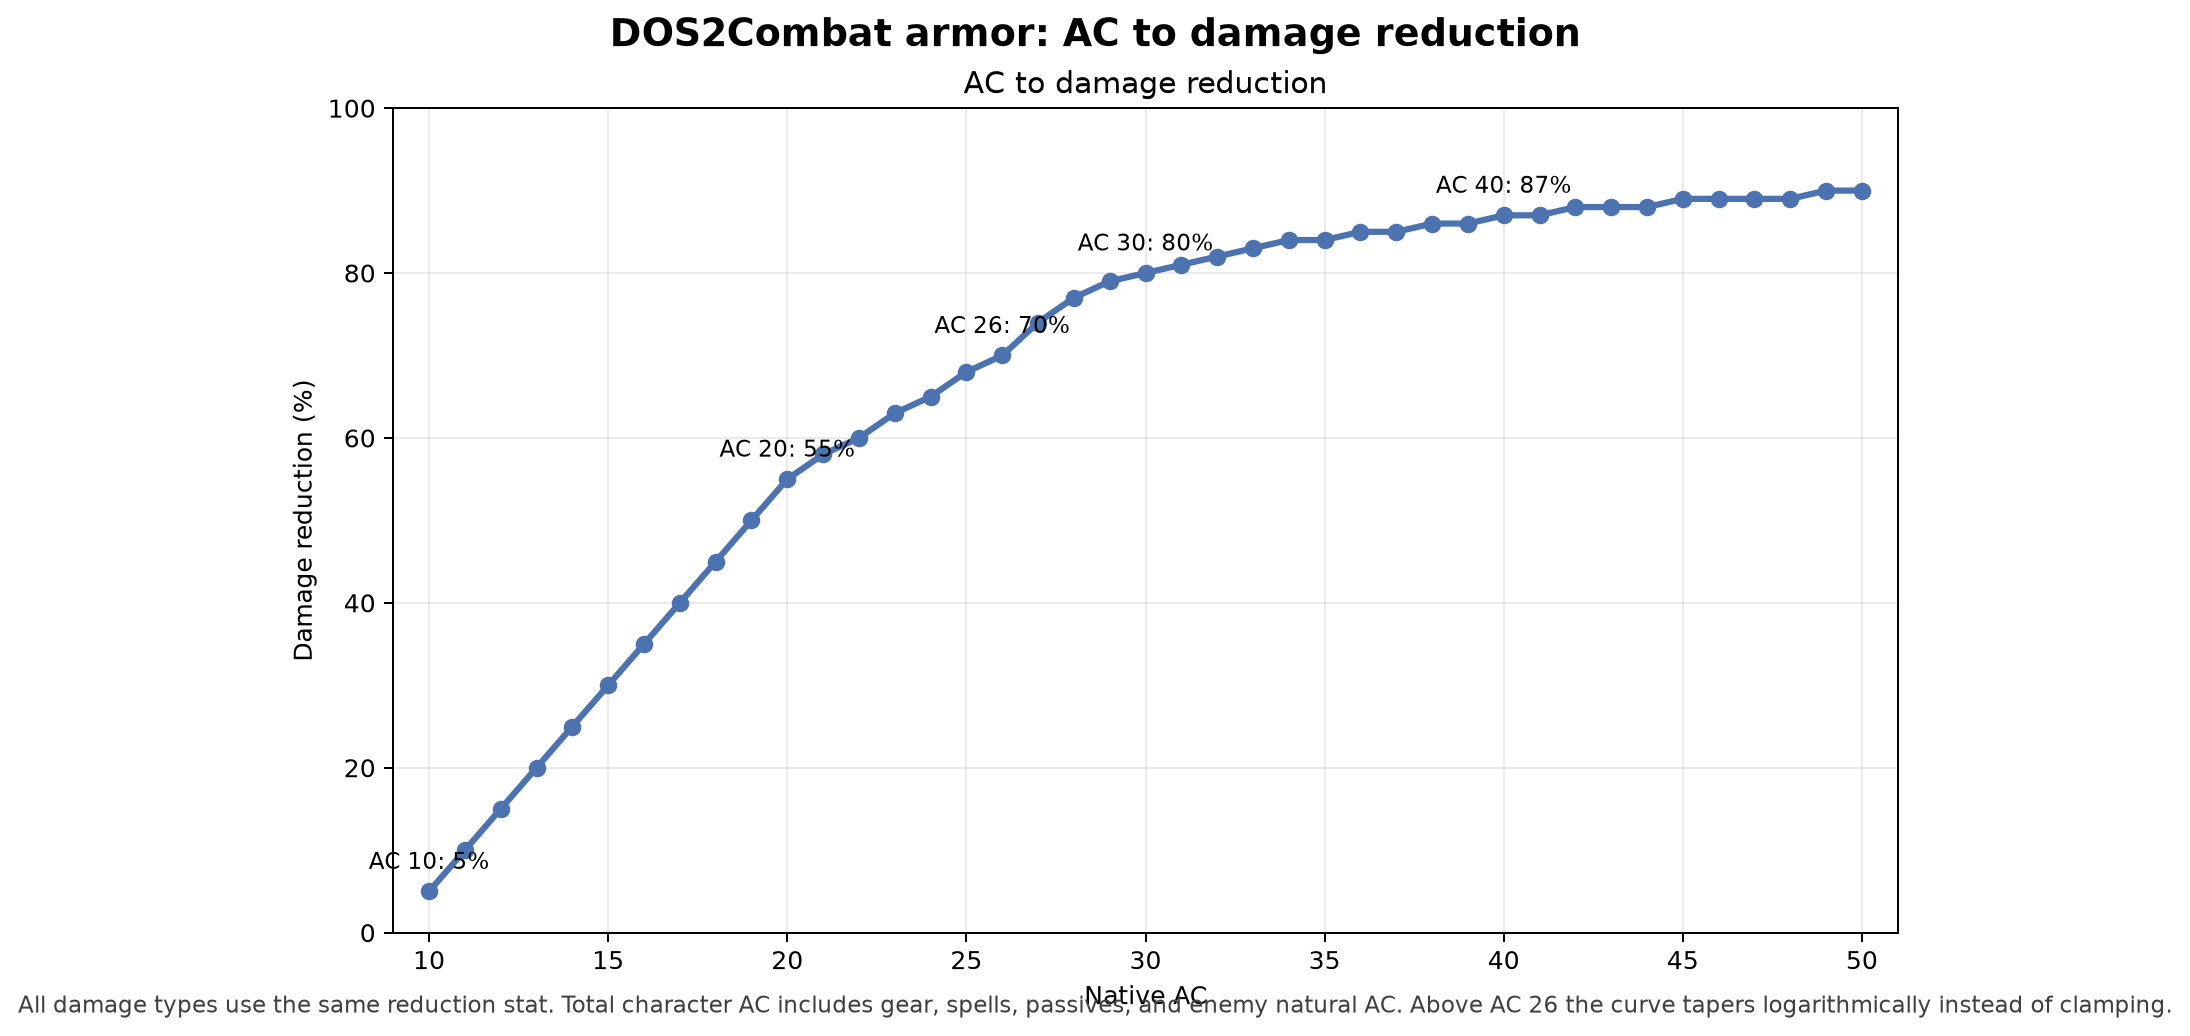
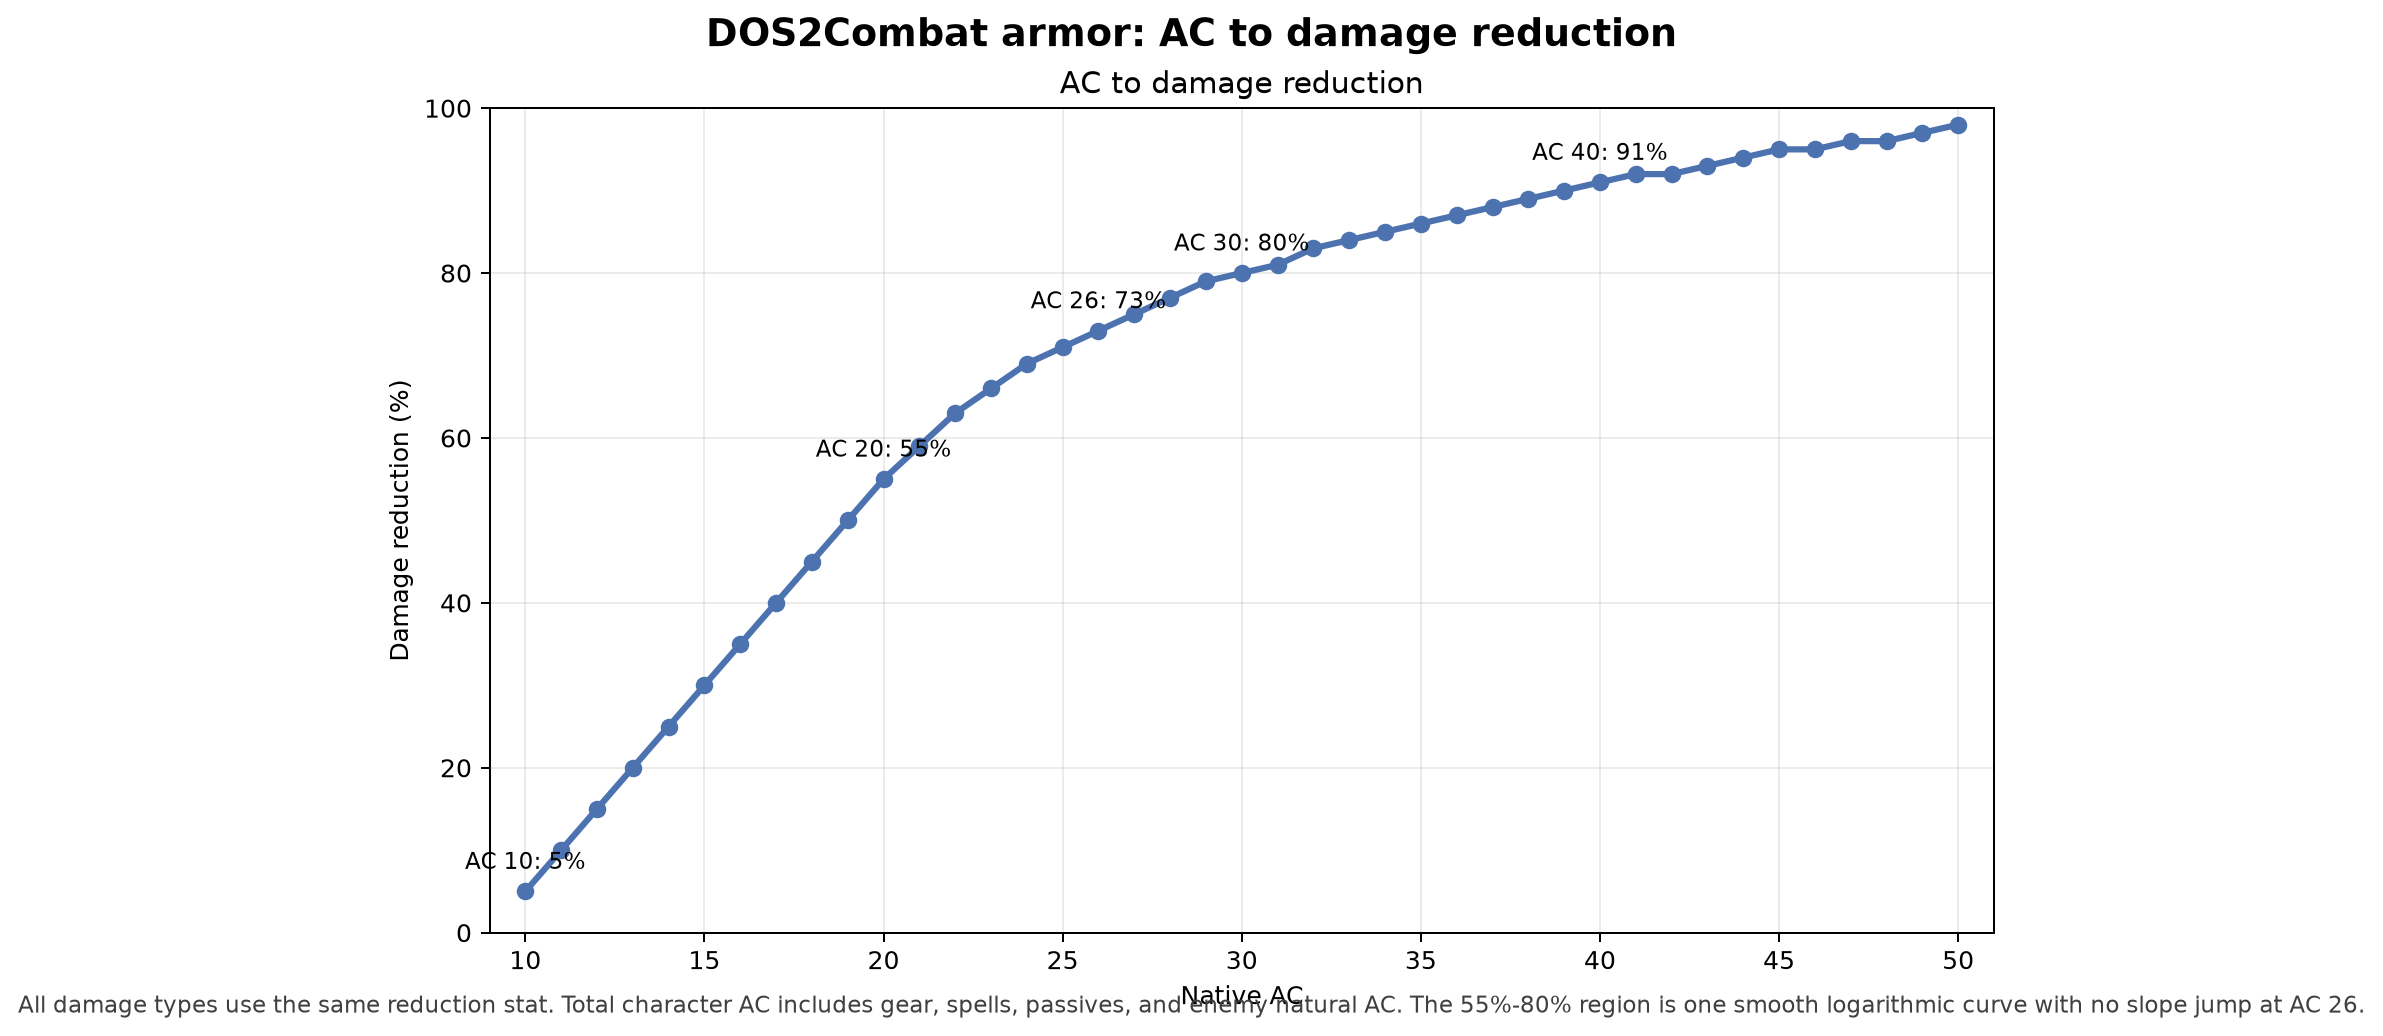
Smooth armor curve from 55 to 80 percent
Replace the piecewise linear-to-log transition at AC 26 with one logarithmic curve from AC 20 to AC 30. Preserve 55 percent at AC 20 and 80 percent at AC 30 while removing the slope jump and local minimum around AC 26.

diff --git a/tests/test_dos2combat_utils.py b/tests/test_dos2combat_utils.py
@@ -128,14 +128,14 @@ class ArmorFormulaTests(unittest.TestCase):
         self.assertEqual(self.formula.Percent(10, False), 5)
         self.assertEqual(self.formula.Percent(14, False), 25)
         self.assertEqual(self.formula.Percent(20, False), 55)
-        self.assertEqual(self.formula.Percent(21, False), 58)
-        self.assertEqual(self.formula.Percent(26, False), 70)
-        self.assertEqual(self.formula.Percent(27, False), 74)
+        self.assertEqual(self.formula.Percent(21, False), 59)
+        self.assertEqual(self.formula.Percent(26, False), 73)
+        self.assertEqual(self.formula.Percent(27, False), 75)
         self.assertEqual(self.formula.Percent(30, False), 80)
-        self.assertEqual(self.formula.Percent(40, False), 87)
+        self.assertEqual(self.formula.Percent(40, False), 91)
         self.assertEqual(self.formula.Percent(2, True), 10)
         self.assertAlmostEqual(self.formula.Fraction(14, False), 0.25)
         self.assertAlmostEqual(self.formula.Fraction(30, False), 0.80)
         self.assertEqual(self.formula.PassiveName(13.2), "DOS2C_ArmorInfo_R13")
-        self.assertEqual(self.formula.Percent(99, False), 97)
+        self.assertEqual(self.formula.Percent(99, False), 100)
         self.assertEqual(self.formula.Percent(500, False), 100)

diff --git a/README.md b/README.md
@@ -133,11 +133,11 @@ Ubuntu runner because LSLib requires Windows.
 - All AC sources are converted into **one percentage damage-reduction stat**.
   There are no separate physical and magic armor buckets. Every damage type
   uses the same reduction.
-- The formula gives 5% per AC above 9 through AC 20, then 2.5% per AC through
-  AC 26. Above AC 26 it tapers logarithmically instead of clamping:
-  AC 10 = 5%, AC 14 = 25%, AC 20 = 55%, AC 26 = 70%, AC 30 = 80%,
-  AC 40 ≈ 87%. A 100% hard safety cap remains. Shield items use their
-  ArmorClass bonus directly.
+- The formula gives 5% per AC above 9 through AC 20. Above AC 20 one smooth
+  logarithmic taper covers the whole 55% to 80% region, eliminating the old
+  slope jump at AC 26: AC 10 = 5%, AC 14 = 25%, AC 20 = 55%, AC 26 = 73%,
+  AC 30 = 80%, AC 40 ≈ 91%. A 100% hard safety cap remains. Shield items use
+  their ArmorClass bonus directly.
 - Enemy AC is converted into damage reduction instead of remaining as hit
   avoidance. A hidden no-dodge status also cancels AC from statuses, spells,
   and passives, including `ACOverrideFormula` effects.

diff --git a/TODO.md b/TODO.md
@@ -241,9 +241,9 @@ Known DOS2 visual references for the current test spells:
 
 - [x] Armor no longer depletes; all AC sources feed one percentage
       damage-reduction stat.
-- [x] Formula: 5% per AC above 9 through AC 20, then 2.5% per AC through
-      AC 26, then logarithmic taper above AC 26. AC 30 = 80% and AC 40 ~ 87%,
-      with a 100% hard safety cap.
+- [x] Formula: 5% per AC above 9 through AC 20. Above AC 20 one smooth
+      logarithmic taper spans 55% to 80% through AC 30, avoiding the old slope
+      jump at AC 26. AC 30 = 80%, AC 40 ~ 91%, with a 100% hard safety cap.
 - [x] Shields use their AC bonus directly.
 - [x] Party reduction is derived from equipped armor and applicable statuses,
       not character level.
